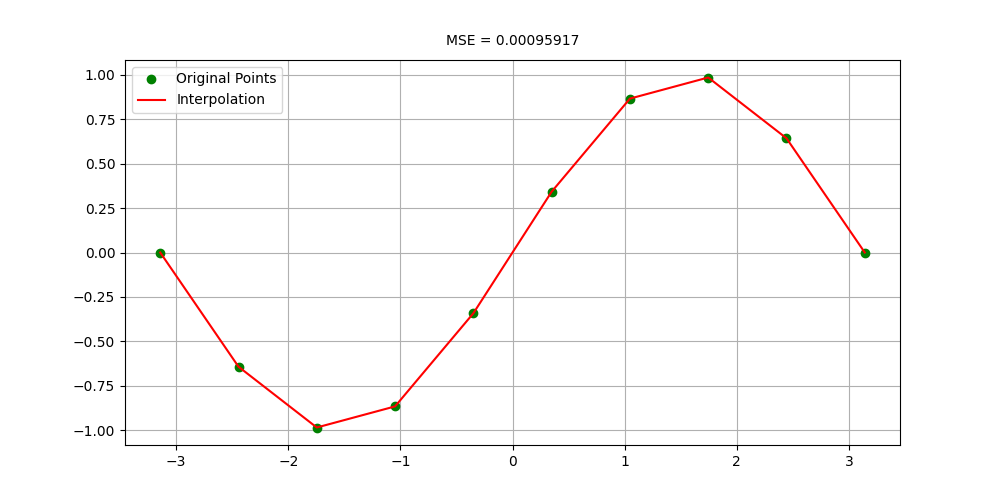
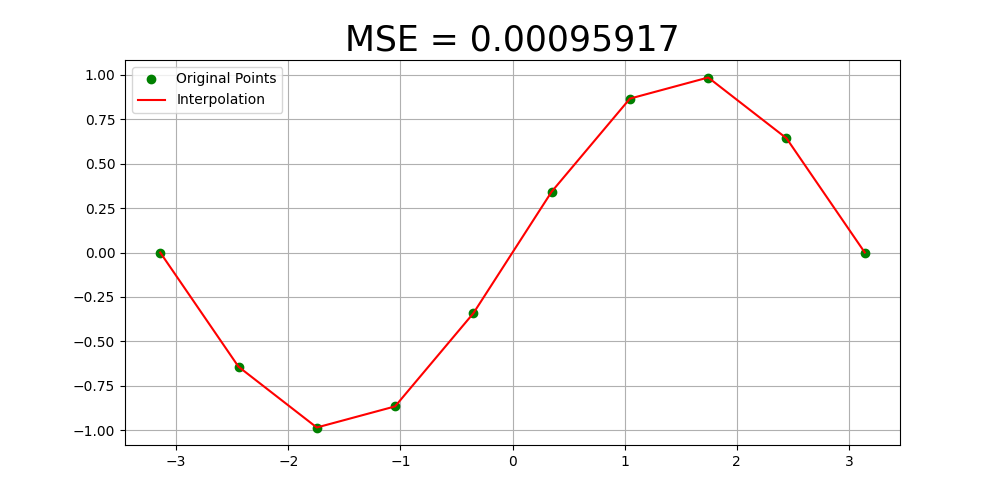
poprawka czytelności wykresów

Changed region(s): [[0.341, 0.03, 0.682, 0.12]]

diff --git a/Sprawozdanie 2/zad1.py b/Sprawozdanie 2/zad1.py
@@ -160,7 +160,7 @@ def interpolate_and_mse(N, filenames):
     plt.plot(x_true, y_interp, 'r-', label='Interpolation')
     plt.grid(True)
     plt.legend()
-    plt.text(0.5, 1.05, f'MSE = {mse:.8f}', horizontalalignment='center', verticalalignment='center', transform=plt.gca().transAxes)
+    plt.text(0.5, 1.05, f'MSE = {mse:.8f}', fontsize=25, horizontalalignment='center', verticalalignment='center', transform=plt.gca().transAxes)
     
     script_dir = os.path.dirname(__file__)
     save_path = os.path.join(script_dir, filenames[N_values.index(N)])
